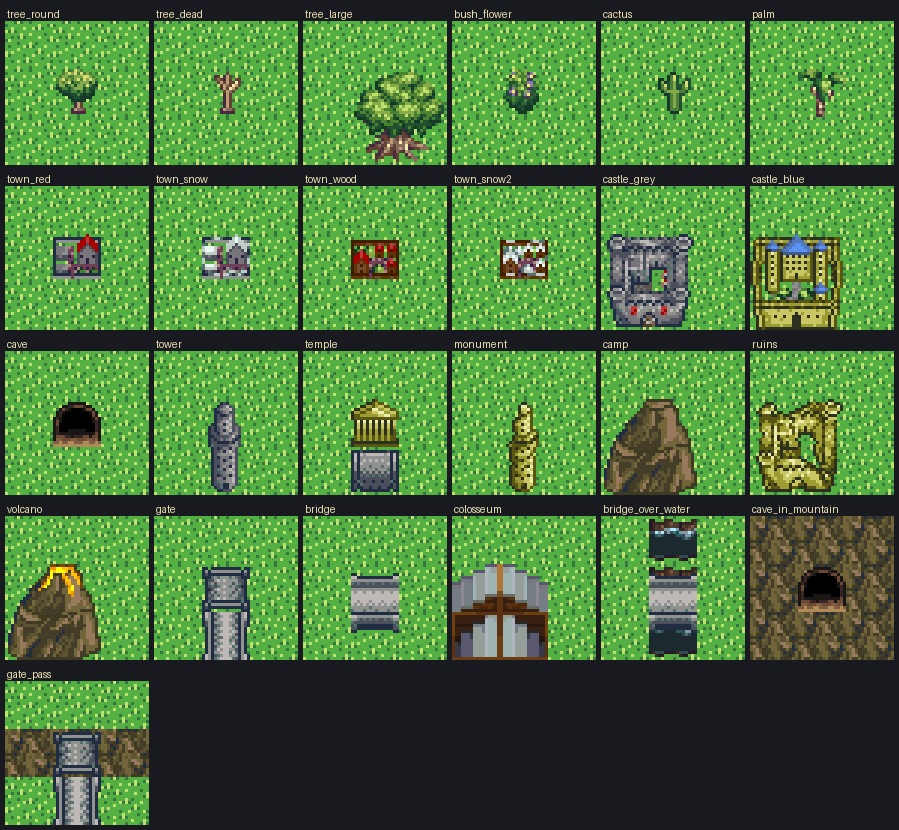
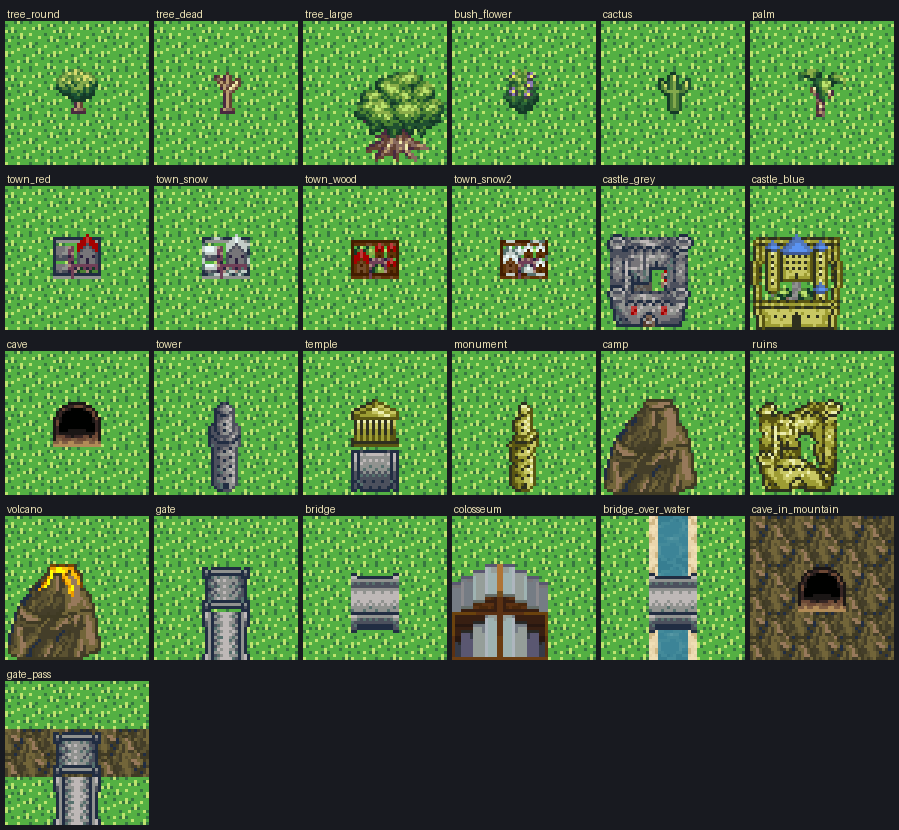
Fix the water plates: compose the shipped water tile instead of the retro boundary block
The water_* overworld plates rendered as dark bands + white specks because the
retro_World water region (cols 0-5, rows 0-7) is the RM2k boundary autotile and
its open-sea cell is a flat (28,41,46) black.

Rather than decode that boundary, the plates now use the water the game already
ships: assets/tiles/water_0.png (landscape_art.py's OpenRTP-derived field water,
ART_BIBLE 2.4 ramp) with a 3px beach.png lip on every land-facing side. The
water island is a 3x3 of that one swatch, so no source sheet is re-derived and
no new runtime art is added.

render_mask gains an optional 'shore' cell; every other terrain plate is
untouched. Plate names, index.json and edge labels are unchanged, so
tools/build_overworld_layout.py needs no change.

Verified: regenerate twice -> pixel-identical plates; validate_assets.py passes
(344 runtime / 424 total).

Changed region(s): [[0.7164, 0.6024, 0.7786, 0.6928], [0.7164, 0.753, 0.7786, 0.8133]]

diff --git a/tools/build_overworld_plates.py b/tools/build_overworld_plates.py
@@ -29,17 +29,18 @@ METHOD
   a terrain base + an entry icon. These are the plates that drop the player into
   the map beneath (town/cave/tower) or let them cross an otherwise-blocked edge.
 
-KNOWN DEFECT — WATER (must be fixed by the next agent)
-------------------------------------------------------
-The water_* plates are WRONG. The water region (cols 0-5, rows 0-7) is the RM2k
-*boundary* autotile, not a standard 3x4 island autotile, so island(0,0) grabs the
-wrong pieces (dark bands + white specks instead of blue sea + foam coast). The
-mask/render_mask machinery is correct; only the water tile SOURCE is wrong.
-Fix: decode the RM2k water boundary (corner-animation 8x8 pieces, H/V sides,
-"+" centre across the first blocks; open-water centre in the deep-sea block
-cols 0-2 rows 3-7; animated water cols 3-5 rows 3-7), build a correct water
-island/edge set, and re-run. forest/sand/snow/dirt/mountain and all 25 site /
-special plates are correct and usable as-is.
+WATER (was the known defect, now fixed)
+---------------------------------------
+The water_* plates used to be wrong. The retro sheet's water region (cols 0-5,
+rows 0-7) is the RM2k *boundary* autotile and its open-sea tile is a flat
+(28,41,46) black that does not read as sea at 1x. Instead of decoding that
+boundary, the plates now take their water from the water tile the game already
+ships: `assets/tiles/water_0.png` (+ `deep_water.png` / `beach.png` for the
+shoreband). Those are the same OpenRTP-derived crops `landscape_art.py` makes
+for the field, so the overworld and the field share one water ramp (ART_BIBLE
+§2.4: #377e91 #3c8497 #438a9a #4d909e #5698a5). No new art is introduced and no
+source sheet is re-derived: the water "island" is a 3x3 of that one swatch, so
+the coast side is drawn as a beach lip and the interior as open water.
 """
 from PIL import Image, ImageDraw
 import os, json
@@ -66,30 +67,87 @@ def island(c0, r0):
 
 GRASS = cell(1, 10)
 
+# The water the game already ships. `landscape_art.py` ramps these from the
+# OpenRTP Exterior chipset into the field's single water ramp (ART_BIBLE §2.4),
+# so the overworld coast and the field's rivers/sea are the same water.
+# The retro_World water block was a black ocean (28,41,46) with no readable
+# shoreline, which is why the water_* plates used to render as dark bands.
+TILES = os.path.join(os.path.dirname(os.path.abspath(__file__)), '..', 'assets', 'tiles')
 
-def render_mask(mask, isl, iso):
+
+def swatch(name):
+    return Image.open(os.path.join(TILES, name)).convert('RGBA')
+
+
+WATER = swatch('water_0.png')
+DEEP = swatch('deep_water.png')
+SHORE = swatch('beach.png')
+
+
+def skirt(water, shore):
+    """One open-water cell with a beach lip on whichever sides face land.
+
+    `sides` names the land-facing edges; the lip is a 3px foam/beach band inset
+    from that edge, so a 3x3 of these reads as a coast rather than a rectangle.
+    """
+    def make(sides):
+        t = water.copy()
+        if not sides:
+            return t
+        px = t.load()
+        sp = shore.load()
+        for side in sides:
+            for i in range(16):
+                for d in range(3):
+                    src = sp[i, 15 - d]
+                    if side == 'N':
+                        px[i, d] = (src[0], src[1], src[2], 255)
+                    elif side == 'S':
+                        px[i, 15 - d] = (src[0], src[1], src[2], 255)
+                    elif side == 'W':
+                        px[d, i] = (src[0], src[1], src[2], 255)
+                    else:
+                        px[15 - d, i] = (src[0], src[1], src[2], 255)
+        return t
+    return make
+
+
+shore_cell = skirt(WATER, SHORE)
+
+
+def render_mask(mask, isl, iso, shore=None):
+    """Compose a 3x3 shape. `shore` (water only) draws the beach lip on land sides."""
     out = Image.new('RGBA', (48, 48))
 
     def nb(r, c, dr, dc):
         rr = min(2, max(0, r + dr)); cc = min(2, max(0, c + dc))
         return mask[rr][cc]
 
+    def edge_sides(r, c):
+        sides = set()
+        if nb(r, c, -1, 0) == 0: sides.add('N')
+        if nb(r, c, 1, 0) == 0: sides.add('S')
+        if nb(r, c, 0, -1) == 0: sides.add('W')
+        if nb(r, c, 0, 1) == 0: sides.add('E')
+        return sides
+
     for r in range(3):
         for c in range(3):
             if mask[r][c] == 0:
                 t = GRASS
             else:
-                sides = set()
-                if nb(r, c, -1, 0) == 0: sides.add('N')
-                if nb(r, c, 1, 0) == 0: sides.add('S')
-                if nb(r, c, 0, -1) == 0: sides.add('W')
-                if nb(r, c, 0, 1) == 0: sides.add('E')
-                m = {frozenset(): isl[1][1], frozenset('N'): isl[0][1],
-                     frozenset('S'): isl[2][1], frozenset('E'): isl[1][2],
-                     frozenset('W'): isl[1][0], frozenset('NE'): isl[0][2],
-                     frozenset('NW'): isl[0][0], frozenset('SE'): isl[2][2],
-                     frozenset('SW'): isl[2][0]}
-                t = m.get(frozenset(sides), iso if len(sides) == 4 else isl[1][1])
+                sides = edge_sides(r, c)
+                if shore is not None:
+                    # Water: the shipped swatch, with a beach lip wherever the
+                    # shape meets land. Full-water cells keep an open sea face.
+                    t = shore(frozenset(sides))
+                else:
+                    m = {frozenset(): isl[1][1], frozenset('N'): isl[0][1],
+                         frozenset('S'): isl[2][1], frozenset('E'): isl[1][2],
+                         frozenset('W'): isl[1][0], frozenset('NE'): isl[0][2],
+                         frozenset('NW'): isl[0][0], frozenset('SE'): isl[2][2],
+                         frozenset('SW'): isl[2][0]}
+                    t = m.get(frozenset(sides), iso if len(sides) == 4 else isl[1][1])
             out.paste(t, (c * 16, r * 16))
     return out
 
@@ -104,10 +162,12 @@ def stamp(base, cells, anchor):
     return base
 
 
+# `water` gets its swatch below (see WATER/DEEP/SHORE at the top); the entry
+# here is only a placeholder so the dict stays a single table.
 ISL = {'forest': island(6, 4), 'sand': island(9, 0), 'snow': island(9, 4),
-       'dirt': island(6, 0), 'mountain': island(3, 12), 'water': island(0, 0)}
+       'dirt': island(6, 0), 'mountain': island(3, 12), 'water': None}
 ISO = {'forest': cell(6, 4), 'sand': cell(9, 0), 'snow': cell(9, 4),
-       'dirt': cell(6, 0), 'mountain': cell(3, 12), 'water': cell(0, 0)}
+       'dirt': cell(6, 0), 'mountain': cell(3, 12), 'water': None}
 MASKS = {
     'full': [[1, 1, 1], [1, 1, 1], [1, 1, 1]],
     'pond': [[0, 0, 0], [0, 1, 0], [0, 0, 0]],
@@ -134,7 +194,12 @@ for terr in ['water', 'forest', 'sand', 'snow', 'dirt', 'mountain']:
     use = list(MASKS) if terr in ('water', 'forest') else \
         ['full', 'pond', 'top', 'bottom', 'left', 'right', 'nw', 'se', 'vchannel', 'hchannel']
     for mn in use:
-        P[f'{terr}_{mn}'] = render_mask(MASKS[mn], ISL[terr], ISO[terr])
+        if terr == 'water':
+            # Water comes from the shipped swatches, not the retro sheet's block.
+            P[f'{terr}_{mn}'] = render_mask(MASKS[mn], ISL[terr], ISO[terr],
+                                            shore=shore_cell)
+        else:
+            P[f'{terr}_{mn}'] = render_mask(MASKS[mn], ISL[terr], ISO[terr])
 
 SITES = {
     'tree_round': ([(19, 8)], (1, 1)), 'tree_dead': ([(20, 8)], (1, 1)),
@@ -155,7 +220,8 @@ SITES = {
 for n, (cells, anc) in SITES.items():
     P[n] = stamp(render_mask([[0] * 3 for _ in range(3)], ISL['forest'], ISO['forest']), cells, anc)
 
-P['bridge_over_water'] = stamp(render_mask(MASKS['vchannel'], ISL['water'], ISO['water']), [(23, 14), (23, 15)], (1, 1))
+P['bridge_over_water'] = stamp(render_mask(MASKS['vchannel'], None, None,
+                                           shore=shore_cell), [(23, 14), (23, 15)], (1, 1))
 P['cave_in_mountain'] = stamp(render_mask(MASKS['full'], ISL['mountain'], ISO['mountain']), [(23, 13)], (1, 1))
 P['gate_pass'] = stamp(render_mask(MASKS['hchannel'], ISL['mountain'], ISO['mountain']), [(22, 14), (22, 15)], (1, 1))
 

diff --git a/docs/HANDOFF_PROCEDURAL_JRPG_WORLD.md b/docs/HANDOFF_PROCEDURAL_JRPG_WORLD.md
@@ -107,12 +107,10 @@ Composition lessons taken from Lufia (apply when authoring more plates):
 - transitions (grass↔water/sand/forest) happen INSIDE a plate via autotile edges so the border itself is a clean single terrain;
 - rare site icons sit as a single entry point.
 
-**KNOWN DEFECT — WATER PLATES ARE WRONG (fix this first):**
-- `water_*` render as dark bands + white specks, not blue sea + foam coast.
-- Cause: the water region (cols 0–5, rows 0–7) is the RM2k *boundary* autotile, not a standard island autotile, so `island(0,0)` grabs the wrong pieces.
-- The mask / `render_mask` machinery is correct; only the water tile SOURCE is wrong.
-- Fix: decode the RM2k water boundary (8×8 corner-animation pieces, H/V sides, "+" centre across the first blocks; open-water centre in the deep-sea block cols 0–2 rows 3–7; animated water cols 3–5 rows 3–7), build a correct water edge/corner set, re-run. Candidates for a full-water cell: `(1,5)` deep sea, `(4,5)` animated.
-- forest/sand/snow/dirt/mountain (60 plates) + all 25 site/special plates are correct and usable now.
+**FIXED — WATER PLATES (was: "water plates are wrong")**
+- The old `water_*` plates rendered as dark bands + white specks: the retro sheet's water region (cols 0–5, rows 0–7) is the RM2k *boundary* autotile, and its open-sea tile is a flat `(28,41,46)` black that does not read as sea.
+- Fix, shipped: the water plates no longer crop water from the sheet. They use the water the game already ships — `assets/tiles/water_0.png` (the OpenRTP-derived field water from `landscape_art.py`, ramp `#377e91 #3c8497 #438a9a #4d909e #5698a5`), with a 3px `beach.png` lip on every land-facing side. `deep_water.png` is there for open-sea plates.
+- `render_mask` is unchanged and `water_*` keep their names and edge labels, so `tools/build_overworld_layout.py` needs no change.
 
 ### Step 4+ — what the next agent builds (the generator)
 

diff --git a/docs/HANDOFF_MAP_GENERATORS.md b/docs/HANDOFF_MAP_GENERATORS.md
@@ -202,7 +202,7 @@ Once all four standalone Python generators (`build_overworld_layout.py`, `build_
    ```
 2. **Transporter Wiring (`Overworld ↔ Submap`):** Every special plate on the overworld grid (`town_*`, `castle_*`, `cave`, `cave_in_mountain`, `tower`, `temple`, `ruins`, `camp`, `gate_pass`, `bridge_over_water`, `volcano`, `colosseum`) stores a deterministic `site_id = "<kind>:<px>,<py>"` and portal bindings so stepping onto the plate (or entering from a mountain side) transitions to that map and exits back onto the exact overworld plate coordinates.
 3. **Recommended Execution Order:**
-   1. Fix the known `water_*` source-crop bug in `tools/build_overworld_plates.py` (noted in `docs/HANDOFF_PROCEDURAL_JRPG_WORLD.md`).
+   1. ~~Fix the known `water_*` source-crop bug~~ — **DONE**: `water_*` now compose the shipped `assets/tiles/water_0.png` with a `beach.png` lip instead of the retro sheet's black boundary block.
    2. Track 1: Towns + Interiors (Steps 1.1 → 1.4).
    3. Track 2: Caves + Multi-Floor Dungeons (Steps 2.1 → 2.4).
    4. Track 3: Quest Maps & Pass Transporters (Steps 3.1 → 3.4).
